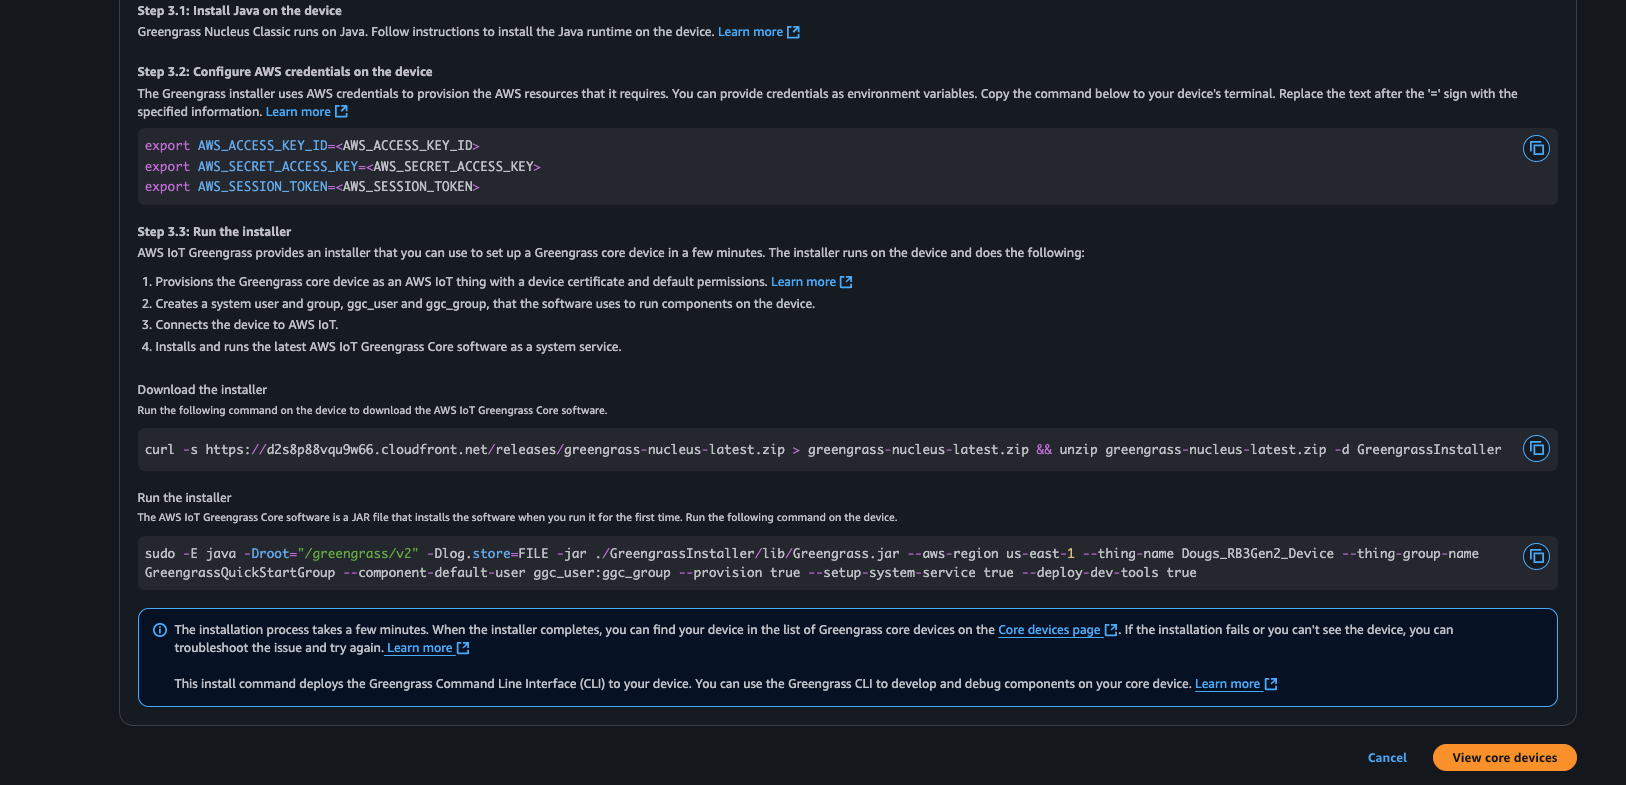
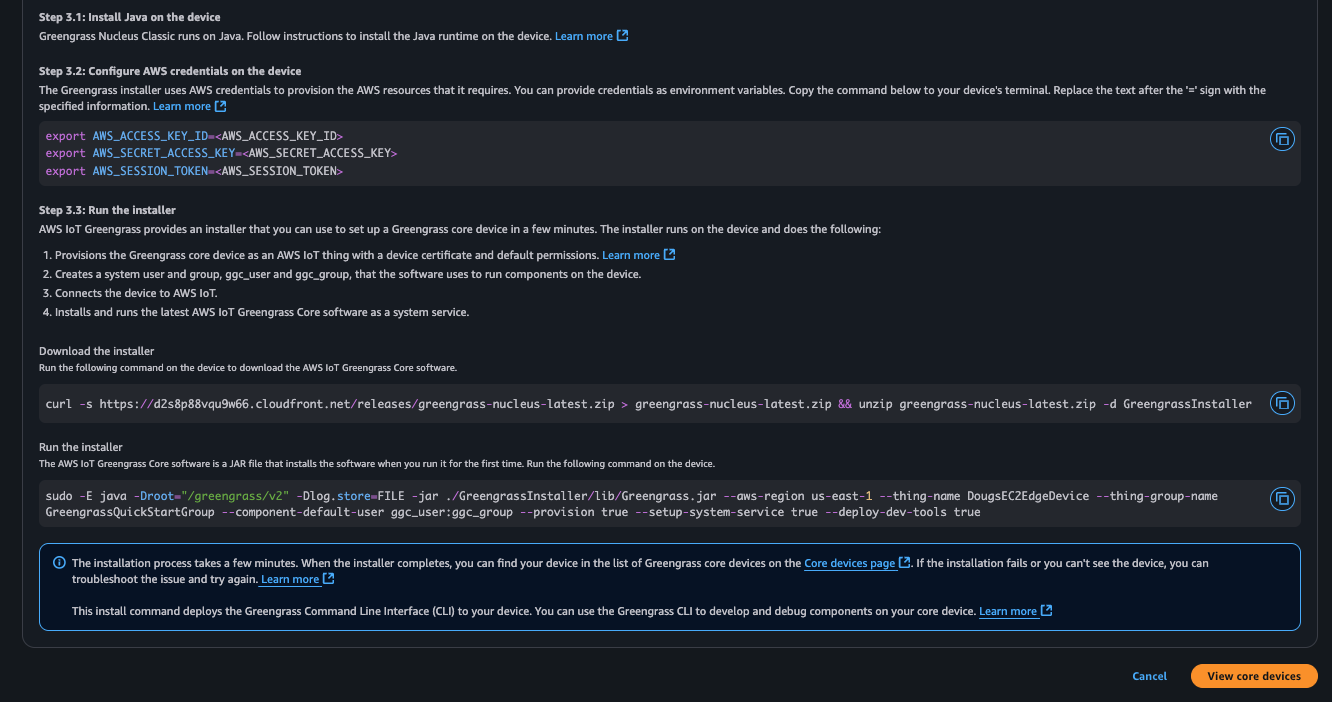
added non-camera component option

diff --git a/5_EdgeImpulseCustomComponentInstallation/EdgeImpulseCustomComponentInstall.md b/5_EdgeImpulseCustomComponentInstallation/EdgeImpulseCustomComponentInstall.md
@@ -1,11 +1,15 @@
 
-## Custom Component Creation
+## Edge Impulse "Runner" Service Custom Component 
 
-### Clone the repo to acquire the Edge Impulse Component recipes and artifacts
+We will utilize a Greengrass "Custom Component" to create and deploy the Edge Impulse runner service (the service that will run our Edge Impulse model on the edge device) including the required additional prerequisites (NodeJS install, libvips install). AWS IoT Greengrass' custom component feature is ideal to create custom components that can be specialized to prepare, run, and shutdown a given custom service. 
 
-Clone this [repo](https://github.com/edgeimpulse/aws-greengrass-components) to retrieve the Edge Impulse component recipes (yaml files) and the associated artifacts.
+Let's get started!
 
-### Upload Edge Impulse Greengrass Component artifacts into AWS S3
+### 1. Clone the repo to acquire the Edge Impulse Component recipes and artifacts
+
+Please clone this [repo](https://github.com/edgeimpulse/aws-greengrass-components) to retrieve the Edge Impulse component recipes (yaml files) and the associated artifacts.
+
+### 2. Upload Edge Impulse Greengrass Component artifacts into AWS S3
 
 First, you need to go to the S3 console in AWS via AWS Console -> S3. From there, you will create an S3 bucket.  For sake of example, we name this bucket "MyS3Bucket123". 
 
@@ -33,44 +37,13 @@ Your S3 Bucket contents should look like this:
 
 ![UploadToS3](S3_Upload_Artifacts.png)
 		
-### Customize the component recipe files
+### 3. Customize the component recipe files
 
 Next we need to customize our Greengrass component recipe files to reflect the actual location of our artifacts stored in S3.  Please replace ALL occurrences of "YOUR\_S3\_ARTIFACT\_BUCKET" with your S3 bucket name (i.e. "MyS3Bucket123"). Please do this for each of the 3 yaml files you have in your cloned repo under "./AWSGreengrassComponents". 
 
 Additionally, we can customize the defaulted configuration of your custom component by  editing, within each yaml file, the default configuration JSON.  Each yaml file's JSON is DIFFERENT... so don't edit one then copy to the other 2 yaml files... that will break your components.  You must edit each yaml file separately without copy/paste of this json information. 
 
 The default configuration contains the following attributes:
-
-		EdgeImpulseLinuxServiceComponent.yaml:
-		{
-			"node_version": "20.12.1",
-			"vips_version": "8.12.1",
-			"device_name": "MyEdgeImpulseDevice",
-			"launch": "linux",
-			"sleep_time_sec": 10,
-			"lock_filename": "/tmp/ei_lockfile_linux",
-			"gst_args": "__none__",
-			"eiparams": "--greengrass",
-			"iotcore_backoff": "5",
-			"iotcore_qos": "1",
-			"ei_bindir": "/usr/local/bin",
-			"ei_sm_secret_id": "EI_API_KEY",
-			"ei_sm_secret_name": "ei_api_key",
-			"ei_ggc_user_groups": "video audio input users",
-			"install_kvssink": "no",
-			"publish_inference_base64_image": "no",
-			"enable_cache_to_file": "no",
-			"ei_poll_sleeptime_ms": 2500,
-			"ei_local_model_file": "__none__",
-			"ei_shutdown_behavior": "__none__",
-			"cache_file_directory": "__none__",
-			"enable_threshold_limit": "no",
-			"metrics_sleeptime_ms": 30000,
-			"default_threshold": 50.0,
-			"threshold_criteria": "ge",
-			"enable_cache_to_s3": "no",
-			"s3_bucket": "__none__",
-		}
     	
 		EdgeImpulseLinuxRunnerServiceComponent.yaml:
 		{
@@ -103,18 +76,6 @@ The default configuration contains the following attributes:
 			"s3_bucket": "__none__",
 		}
     	
-		EdgeImpulseSerialRunnerServiceComponent.yaml:
-		{
-			"node_version": "20.12.1",
-			"device_name": "MyEdgeImpulseDevice",
-			"sleep_time_sec": 10,
-			"lock_filename": "/tmp/ei_lockfile_serial_runner",
-			"iotcore_backoff": "5",
-			"iotcore_qos": "1",
-			"ei_bindir": "/usr/local/bin",
-			"ei_ggc_user_groups": "video audio input users dialout"
-		}
-    	
 #### Attribute Description
 
 The attributes in each of the above default configurations is outlined below:
@@ -137,11 +98,6 @@ The attributes in each of the above default configurations is outlined below:
 * **publish\_inference\_base64\_image**: Option (default: "no", on: "yes") to include a base64 encoded image that the inference result was based on
 * **enable\_cache\_to\_file**: Option (default: "no", on: "yes") to enable both inference and associated image to get written to a specified local directory as a pair: <guid>.img  and <guid>.json for each inference identified with a <guid>
 * **cache\_file\_directory**: Option (default: "__none__") to specify the local directory when enable_cache_to_file is set to "yes"
-
-#### New options (January 2025 Integration Enhancements)
-
-In the 2025 updated integration, the following additional component recipe attributes are required: 
-
 * **ei\_poll\_sleeptime\_ms**: time (in ms) for the long polling message processor (typically leave as-is)
 * **ei\_local\_model\_file**: option to utilize a previously installed local model file
 * **ei\_shutdown\_behavior**: option to alter the shutdown behavior of the linux runner process. (can be set to "wait\_for\_restart" to cause the runner to pause after running the model and wait for the "restart" command to be issued (see "Commands" below for more details on the "restart" command))
@@ -152,7 +108,7 @@ In the 2025 updated integration, the following additional component recipe attri
 * **enable\_cache\_to\_s3**: option to enable caching the inference image/result to an AWS S3 bucket
 * **s3\_bucket**: name of the optional S3 bucket to cache results into
 
-### Register the custom component via its recipe file
+### 4. Register the custom component via its recipe file
 
 From the AWS Console -> IoT Core -> Greengrass -> Components, select "Create component". Then:
 

diff --git a/6_CustomComponentDeployment/CustomComponentDeployment.md b/6_CustomComponentDeployment/CustomComponentDeployment.md
@@ -1,6 +1,10 @@
 
 ## Greengrass Component Deployment
 
+### (Non-Camera Edge Devices Only): Additional Custom Component 
+
+If your edge device does not contain a camera (i.e. EC2 edge device), you will need to deploy an additional custom component. Please follow [these steps](./NonCameraCustomComponent.md) to get the additional component created. You will be selecting this component in addition to the custom component we created for the Edge Impulse "Runner" service. 
+
 ### Deploy the custom component to a selected Greengrass edge device or group of edge devices. 
 
 Almost done!  We can now go back to the AWS Console -> IoT Core -> Greengrass -> Deployments page and select a deployment (or create a new one!) to deploy our component down to as selected edge device or group of gateways as needed: 
@@ -17,14 +21,55 @@ In either case above we now press "Next" and select our newly created custom com
 
 ![GGDeploy](GG_Create_Deployment_3.png)
 
-Press "Next" again, then select our custom component and press "Configure Component":
+>**_NOTE:_**
+>If you are using an edge device which does not have a camera, you will also need to select the "EdgeImpulseRunnerRuntimeInstallerComponent" custom component that you created above ("Non-Camera Edge Device Custom Component"):
+>![GGDeploy](GG_Create_Deployment_3a.png)
+
+Press "Next" again, then select our custom component and press "Configure Component" to configure the "Runner" component:
 
 ![GGDeploy](GG_Create_Deployment_4.png)
+
+>**_NOTE:_**
+>If you also have the Non-Camera component, it does NOT need to be configured... only the "EdgeImpulseLinuxRunnerServiceComponent" should be configured
 
 We now see that our custom component has a default configuration. We can, however, customize it specifically for our specific deployment (i.e. to a specific device or group of similar devices...).  Lets customize our deployment by copying and pasting a new JSON into the "Configuration to merge" window followed by pressing "Confirm":
 
 >**_NOTE:_**
->As an example for this particular JSON, I am customizing the "device\_name" parameter as well as the "gst\_args" to pull input from a file vs. camera. This will be dependent on the actual edge device being used in the workshop. In this particular JSON, the EC2 edge device is assumed to be used. Because the EC2 edge device has no camera, we have to direct the model, using our gstreamer arguments, to take input from a file. Your workshop instructor should provide you with the correct JSON for your particular workshop and edge device(s). 
+>As an example for this particular JSON, I am customizing the "device\_name" parameter as well as the "gst\_args" to pull input from a file vs. camera. This will be dependent on the actual edge device being used in the workshop. In this particular JSON, the EC2 edge device is assumed to be used. Because the EC2 edge device has no camera, we have to direct the model, using our gstreamer arguments, to take input from a file. Your workshop instructor should provide you with the correct JSON for your particular workshop and edge device(s). The entire JSON used in the example is this and is suitable for edge devices like the EC2 edge device (note the device\_name!). Only the "device\_name" and "gst\_args" keys are modified from their defaults:
+>
+	{     
+	   "Parameters": { 
+	      "node_version": "20.18.2",
+	      "vips_version": "8.12.1",
+	      "device_name": "DougsEC2EdgeDevice",
+	      "launch": "runner",
+	      "sleep_time_sec": 10,
+	      "lock_filename": "/tmp/ei_lockfile_runner",
+	      "gst_args": "filesrc:location=/home/ggc_user/data/testSample.mp4:!:decodebin:!:videoconvert:!:videorate:!:video/x-raw,framerate=2200/1:!:jpegenc",
+	      "eiparams": "--greengrass",
+	      "iotcore_backoff": "-1",
+	      "iotcore_qos": "1",
+	      "ei_bindir": "/usr/local/bin",
+	      "ei_sm_secret_id": "EI_API_KEY",
+	      "ei_sm_secret_name": "ei_api_key",
+	      "ei_poll_sleeptime_ms": 2500,
+	      "ei_local_model_file": "/home/ggc_user/data/currentModel.eim",
+	      "ei_shutdown_behavior": "wait_on_restart",
+	      "ei_ggc_user_groups": "video audio input users system",
+	      "install_kvssink": "no",
+	      "publish_inference_base64_image": "no",
+	      "enable_cache_to_file": "no",
+	      "cache_file_directory": "__none__",
+	      "enable_threshold_limit": "no",
+	      "metrics_sleeptime_ms": 30000,
+	      "default_threshold": 50,
+	      "threshold_criteria": "ge",
+	      "enable_cache_to_s3": "no",
+	      "s3_bucket": "__none__" 
+	   }  
+	}  
+
+Copy and paste the JSON into the "Configuration to merge" window and press "Confirm":
 
 ![GGDeploy](GG_Create_Deployment_5.png)
 

diff --git a/3_GreengrassInstallation/GreengrassInstallation.md b/3_GreengrassInstallation/GreengrassInstallation.md
@@ -9,18 +9,65 @@ Log into your edge device via SSH and we'll start the process of installing/conf
 
 AWS IoT Greengrass is based on Java and thus a Java runtime must be installed. For most linux-based devices a suitable Java can be run by simply typing:
 
-	Debian-based Linux/Ubuntu:
+	Ubuntu/Debian-based Edge Devices:
 	
 			% sudo apt update	
 			% sudo apt install -y default-jdk unzip curl
 
-	Redhat-based Linux: 
+	RedHat/Fedora-based Edge Devices: 
 
 			% sudo yum install -y default-jdk
 
 Additionally, its recommended to update your linux device with the latest security patches and updates if available. 
 
-### 2. Install AWS IoT Greengrass
+### 2. Create AWS Administrator Credentials
+
+Prior to installing AWS IoT Greengrass, we need to create a set of AWS credentials that will be used as part of the installation process. 
+
+>**_NOTE:_**
+>These credentials may automatically be provided to you when you initiate the workshop has hosted by AWS Workshop Studio. If so, please copy the credentials as we'll need them in the next step. The credentials should look like this:
+>
+>		export AWS_ACCESS_KEY_ID=<AWS_ACCESS_KEY_ID>
+>		export AWS_SECRET_ACCESS_KEY=<AWS_SECRET_ACCESS_KEY>
+
+If you are using your personal AWS account and do not have the credentails created, you will need to create them. If you already have them, please skip the next step and proceed to step 3) below. 
+
+#### 2a. Creating Access Credentials (personal AWS Accounts)
+
+Please navigate to your AWS Dashboard and search for IAM:
+
+![IAM](GG_Install_iam.png)
+
+Launch the IAM Dashboard:
+
+![IAM](GG_Install_iam_dashboard.png)
+
+Select "Users" from the left hand side of the dashboard:
+
+![IAM](GG_Install_iam_2.png)
+
+Select your user, then select the "Security Credentials" tab:
+
+![IAM](GG_Install_iam_3.png)
+
+Press "Create access key":
+
+![IAM](GG_Install_iam_4.png)
+
+Choose "Other" and then press "Next":
+
+![IAM](GG_Install_iam_5.png)
+
+Set a description for the access key and then press "Create access key"
+
+![IAM](GG_Install_iam_6.png)
+
+You will now have the (only...) opportunity to copy and save off your credentials. Its best if you save them to a temp file that you'll read later in this format:
+
+	export AWS_ACCESS_KEY_ID=<AWS_ACCESS_KEY_ID>
+	export AWS_SECRET_ACCESS_KEY=<AWS_SECRET_ACCESS_KEY>
+
+### 3. Install AWS IoT Greengrass
 
 Greengrass is typically installed from within the AWS Console -> AWS IoT Core -> Greengrass -> Core Devices menu... select/press "Set up one core device". There are multiple ways to install Greengrass - "Nucleus Classic" is the version of Greengrass that is based on Java.  "Nucleus Lite" is a native version of Greengrass that is typically part of a Yocto-image based implementation. 
 
@@ -31,13 +78,6 @@ In this example, we choose the "Linux" device type and we are going to download 
 Lower down in the menu, you will see the specific instructions that are custom-crafted for you to download and invoke the "Nucleus Classic" installer. Note that you will have to have previously created and set, within your shell environment, an AWS Access Key (typically with Administrator privilege) in order to run the installer:
 
  ![CreateDevice](GG_Install_Device2.png)
-
-### 3. Install defaulted AWS IoT Greengrass components
-
-When doing a Greengrass installation/deployment, a default deployment for the target device will typically get created and that deployment will install the two components below.  If one is not created, it is recommended that you create a deployment in Greengrass for your newly added Greengrass edge device and add the following available AWS Components:
-
-			aws.greengrass.Cli
-			aws.greengrass.Nucleus
 
 ### 4. Modify the Greengrass TokenExchange Role with additional permissions
 

diff --git a/6_CustomComponentDeployment/NonCameraCustomComponent.md b/6_CustomComponentDeployment/NonCameraCustomComponent.md
@@ -1,0 +1,46 @@
+## Non-Camera Custom Component
+
+For those edge devices that do not contain a camera, the following component will prepare the edge device with some sample images that can be referenced by the Edge Impulse "Runner" component's JSON configuration (via "gst\_args" settings) to direct the running model to pull its image data from the file (vs. camera). 
+
+### 1. Clone the component repo
+
+Please clone this [repo](https://github.com/edgeimpulse/aws-greengrass-reinvent2024). You will find the following files: 
+
+		EdgeImpulseRunnerRuntimeInstallerComponent.yaml
+		artifacts/EdgeImpulseRunnerRuntime/1.0.0/install.sh
+		artifacts/EdgeImpulseRunnerRuntime/1.0.0/models.tar.gz
+		artifacts/EdgeImpulseRunnerRuntime/1.0.0/samples.tar.gz
+		
+### 2. Copy the artifacts files to AWS S3
+
+From the AWS dashboard, select the S3 dashboard and navigate to the same bucket you created for the "Runner" custom component. 
+
+In that bucket, please create the following directory structure:
+
+		artifacts/EdgeImpulseRunnerRuntime/1.0.0
+		
+Within the 1.0.0 directory in S3, upload these files from your cloned repo (located in ./artifacts/EdgeImpulseRunnerRuntime/1.0.0 within your cloned repo):
+
+		install.sh
+		models.tar.gz
+		samples.tar.gz
+
+Next, we need to edit the EdgeImpulseRunnerRuntimeInstallerComponent.yaml and change the artifact location from "MY_S3_BUCKET" to the actual name of your S3 bucket (you'll see MY_S3_BUCKET near the bottom of the yaml file). Save the file. 
+
+### 3. Create the custom component
+
+Within the AWS dashboard, go to the IoTCore dashboard, then navigate to "Components" under the "Greengrass devices" drop-down on the left hand side. 
+
+![CreateComponent](GG_Create_NC_Component_1.png)
+
+Press "Create Component" and select "YAML" as the recipe format type. Copy and paste the contents of your updated/modified file EdgeImpulseRunnerRuntimeInstallerComponent.yaml into the text window after clearing the initial contents:
+
+![CreateComponent](GG_Create_NC_Component_2.png)
+
+Finally, press "Create Component" and you should now have 2 custom components registered:
+
+![CreateComponent](GG_Create_NC_Component_3.png)
+
+Awesome!  Now that the non-camera support component is created, we can go back and continue with the deployment of these components to your edge device via the AWS IoT Greengrass deployment mechanism. Press "Return to Deployment Steps" below and continue!
+
+[Return to Deployment Steps](../6_CustomComponentDeployment/CustomComponentDeployment.md)

diff --git a/README.md b/README.md
@@ -2,4 +2,11 @@
 
 This is the Edge Impulse AWS Integration workshop. The workshop will step you through the process of creating a ML model, then deploying that model, via AWS IoT Greengrass to your own edge device. Once the ML model is running, inference results will be sent into AWS IoTCore for further potential processing. 
 
+Currently the workshop content is centered around the following edge devices:
+
+* Raspberry Pi 5 running Raspberry Pi OS
+* EC2 instance as a simulated edge device
+
+More device types are planned so stay tuned!
+
 To Begin the workshop [start here](./0_Overview/Overview.md).
